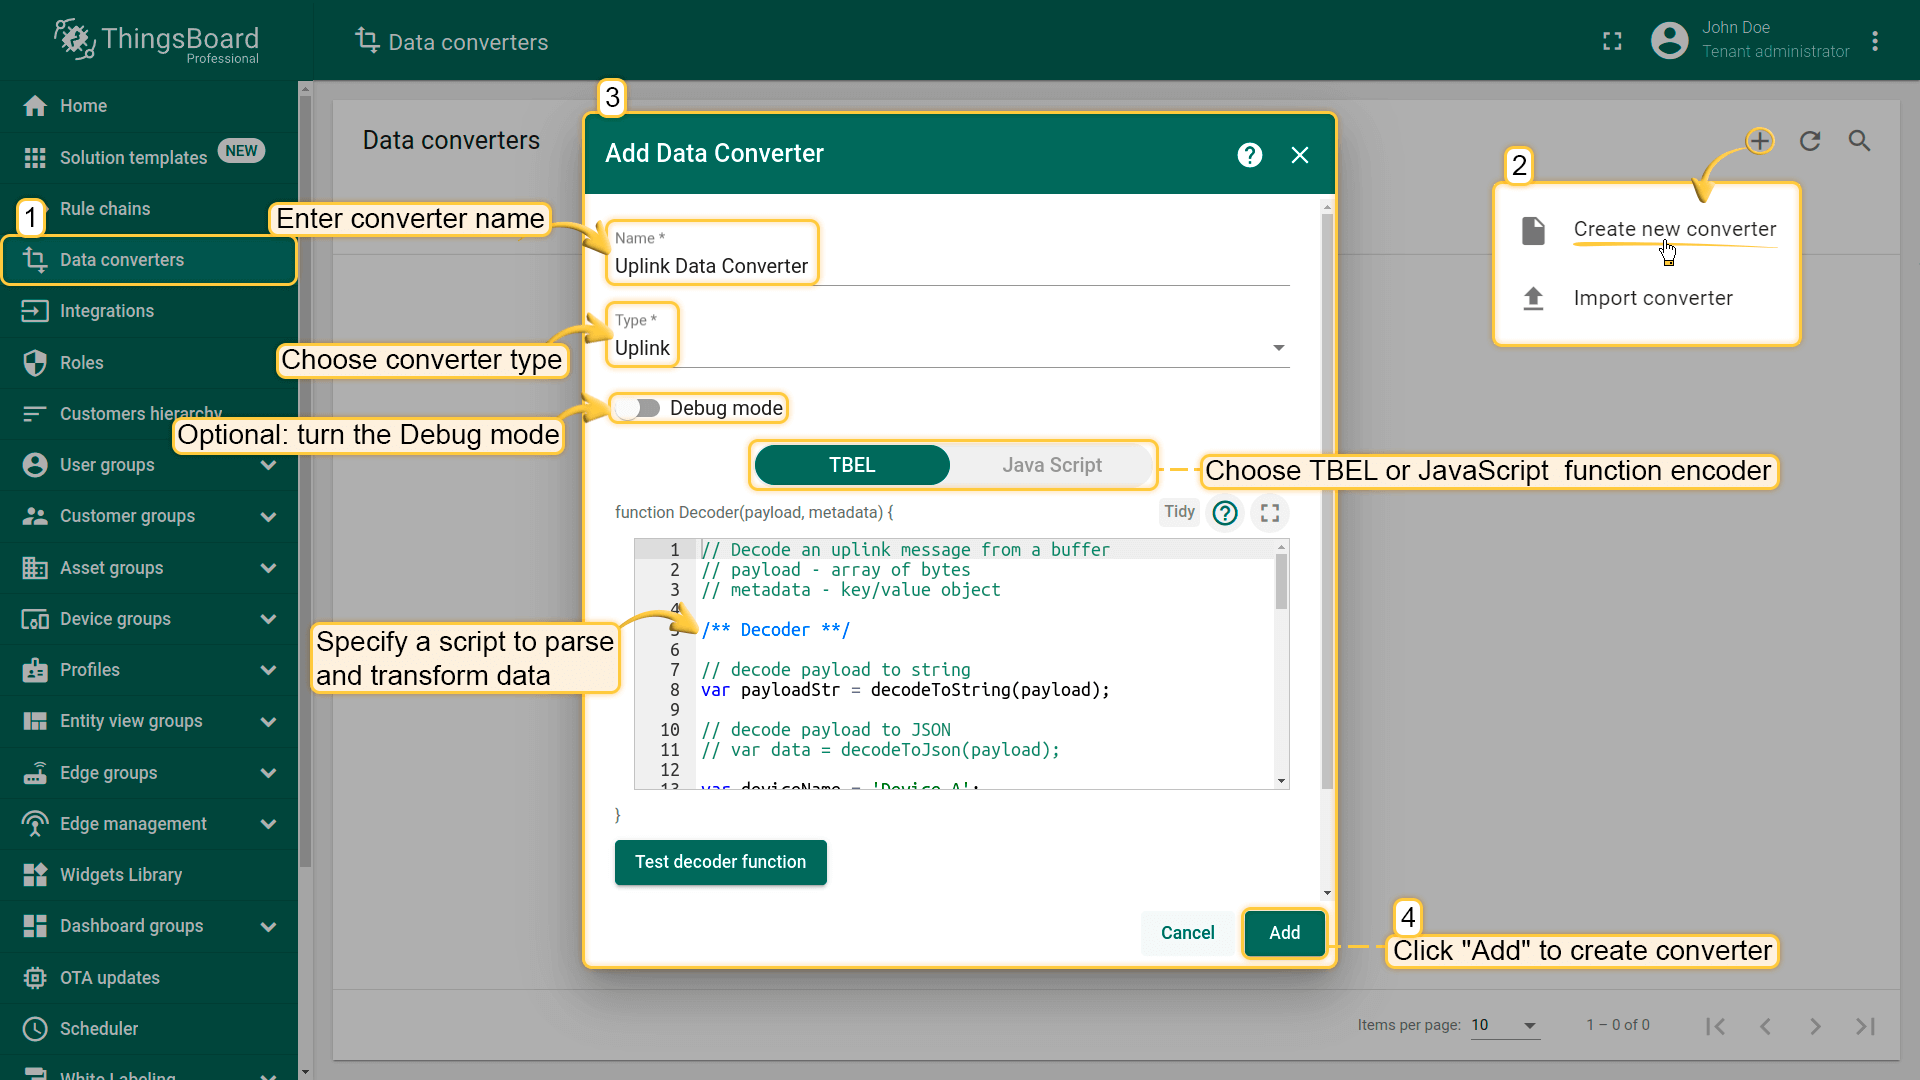
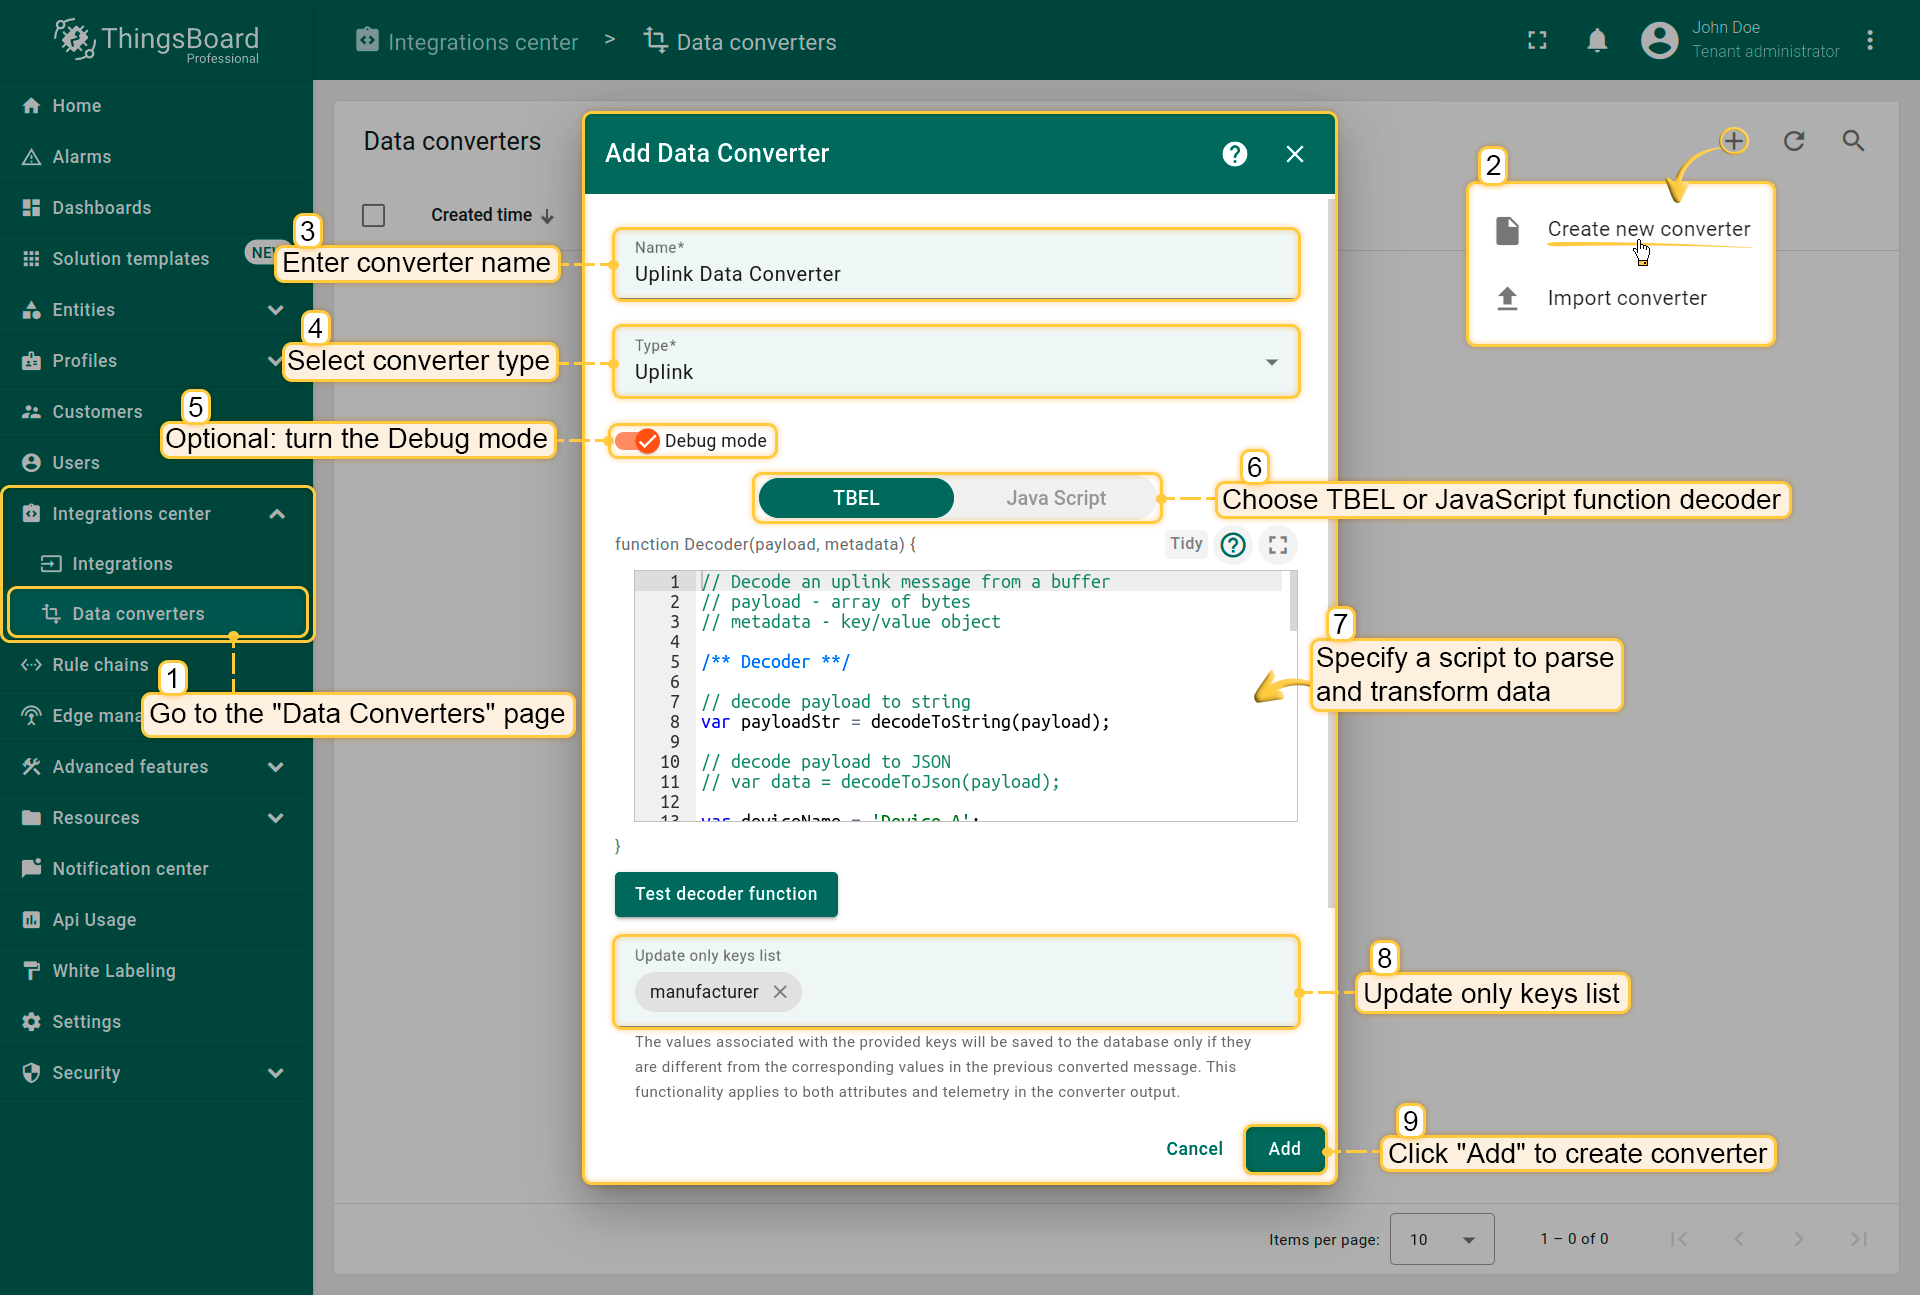
Added information about update only keys list

diff --git a/_includes/docs/pe/user-guide/integrations/index.md b/_includes/docs/pe/user-guide/integrations/index.md
@@ -220,7 +220,18 @@ Converter may also output array of device values and/or contain timestamps in th
     }
 ]
 ```
- 
+
+##### Update only keys field
+
+To avoid constant updates for telemetry attributes or keys, you can use the "Update only keys list" field.  
+Any keys provided in this field that exist in the telemetry or attribute arrays in the message after conversion will not be updated if the values associated with those keys have not changed from their previous values.
+
+{% capture update-only-keys-cluster-mode %}
+Please note that in a cluster setup, values, associated with keys specified in the "Update only keys list" field may be updated more than once if a message is received by a different integration executor nodes.  
+The same behavior is expected if the converter configuration has been updated.  
+{% endcapture %}
+{% include templates/warn-banner.md content=update-only-keys-cluster-mode %}
+
 ##### Example
 
 Let's assume a complex example where payload is encoded in hex "value" field and there is a timestamp associated with each record. 
